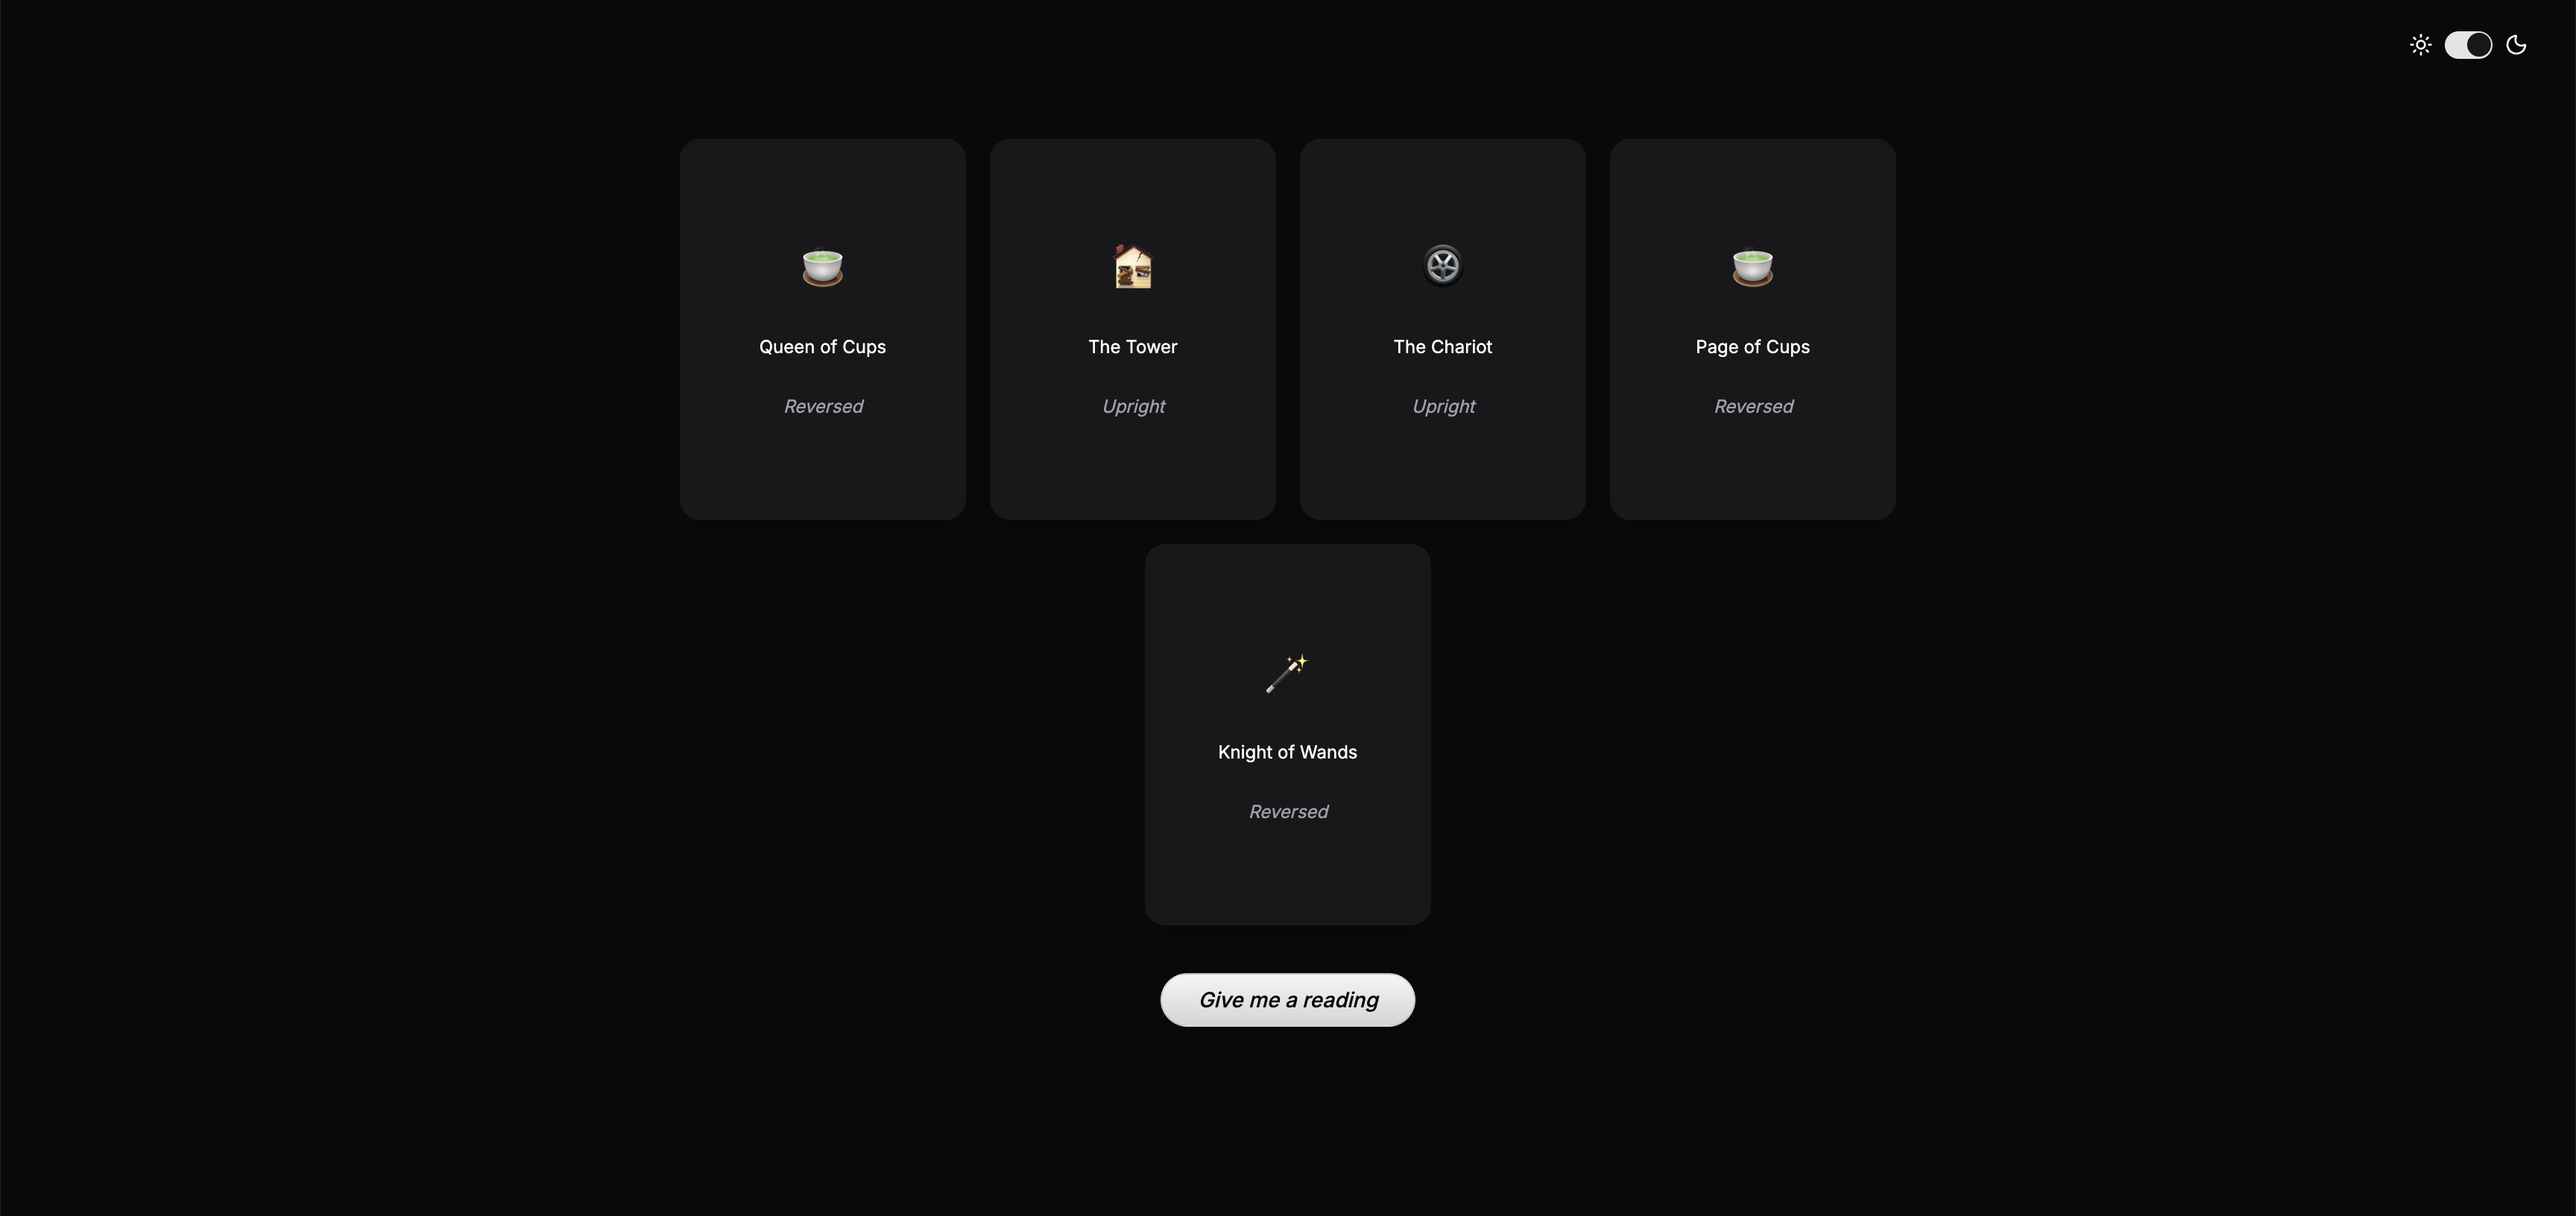
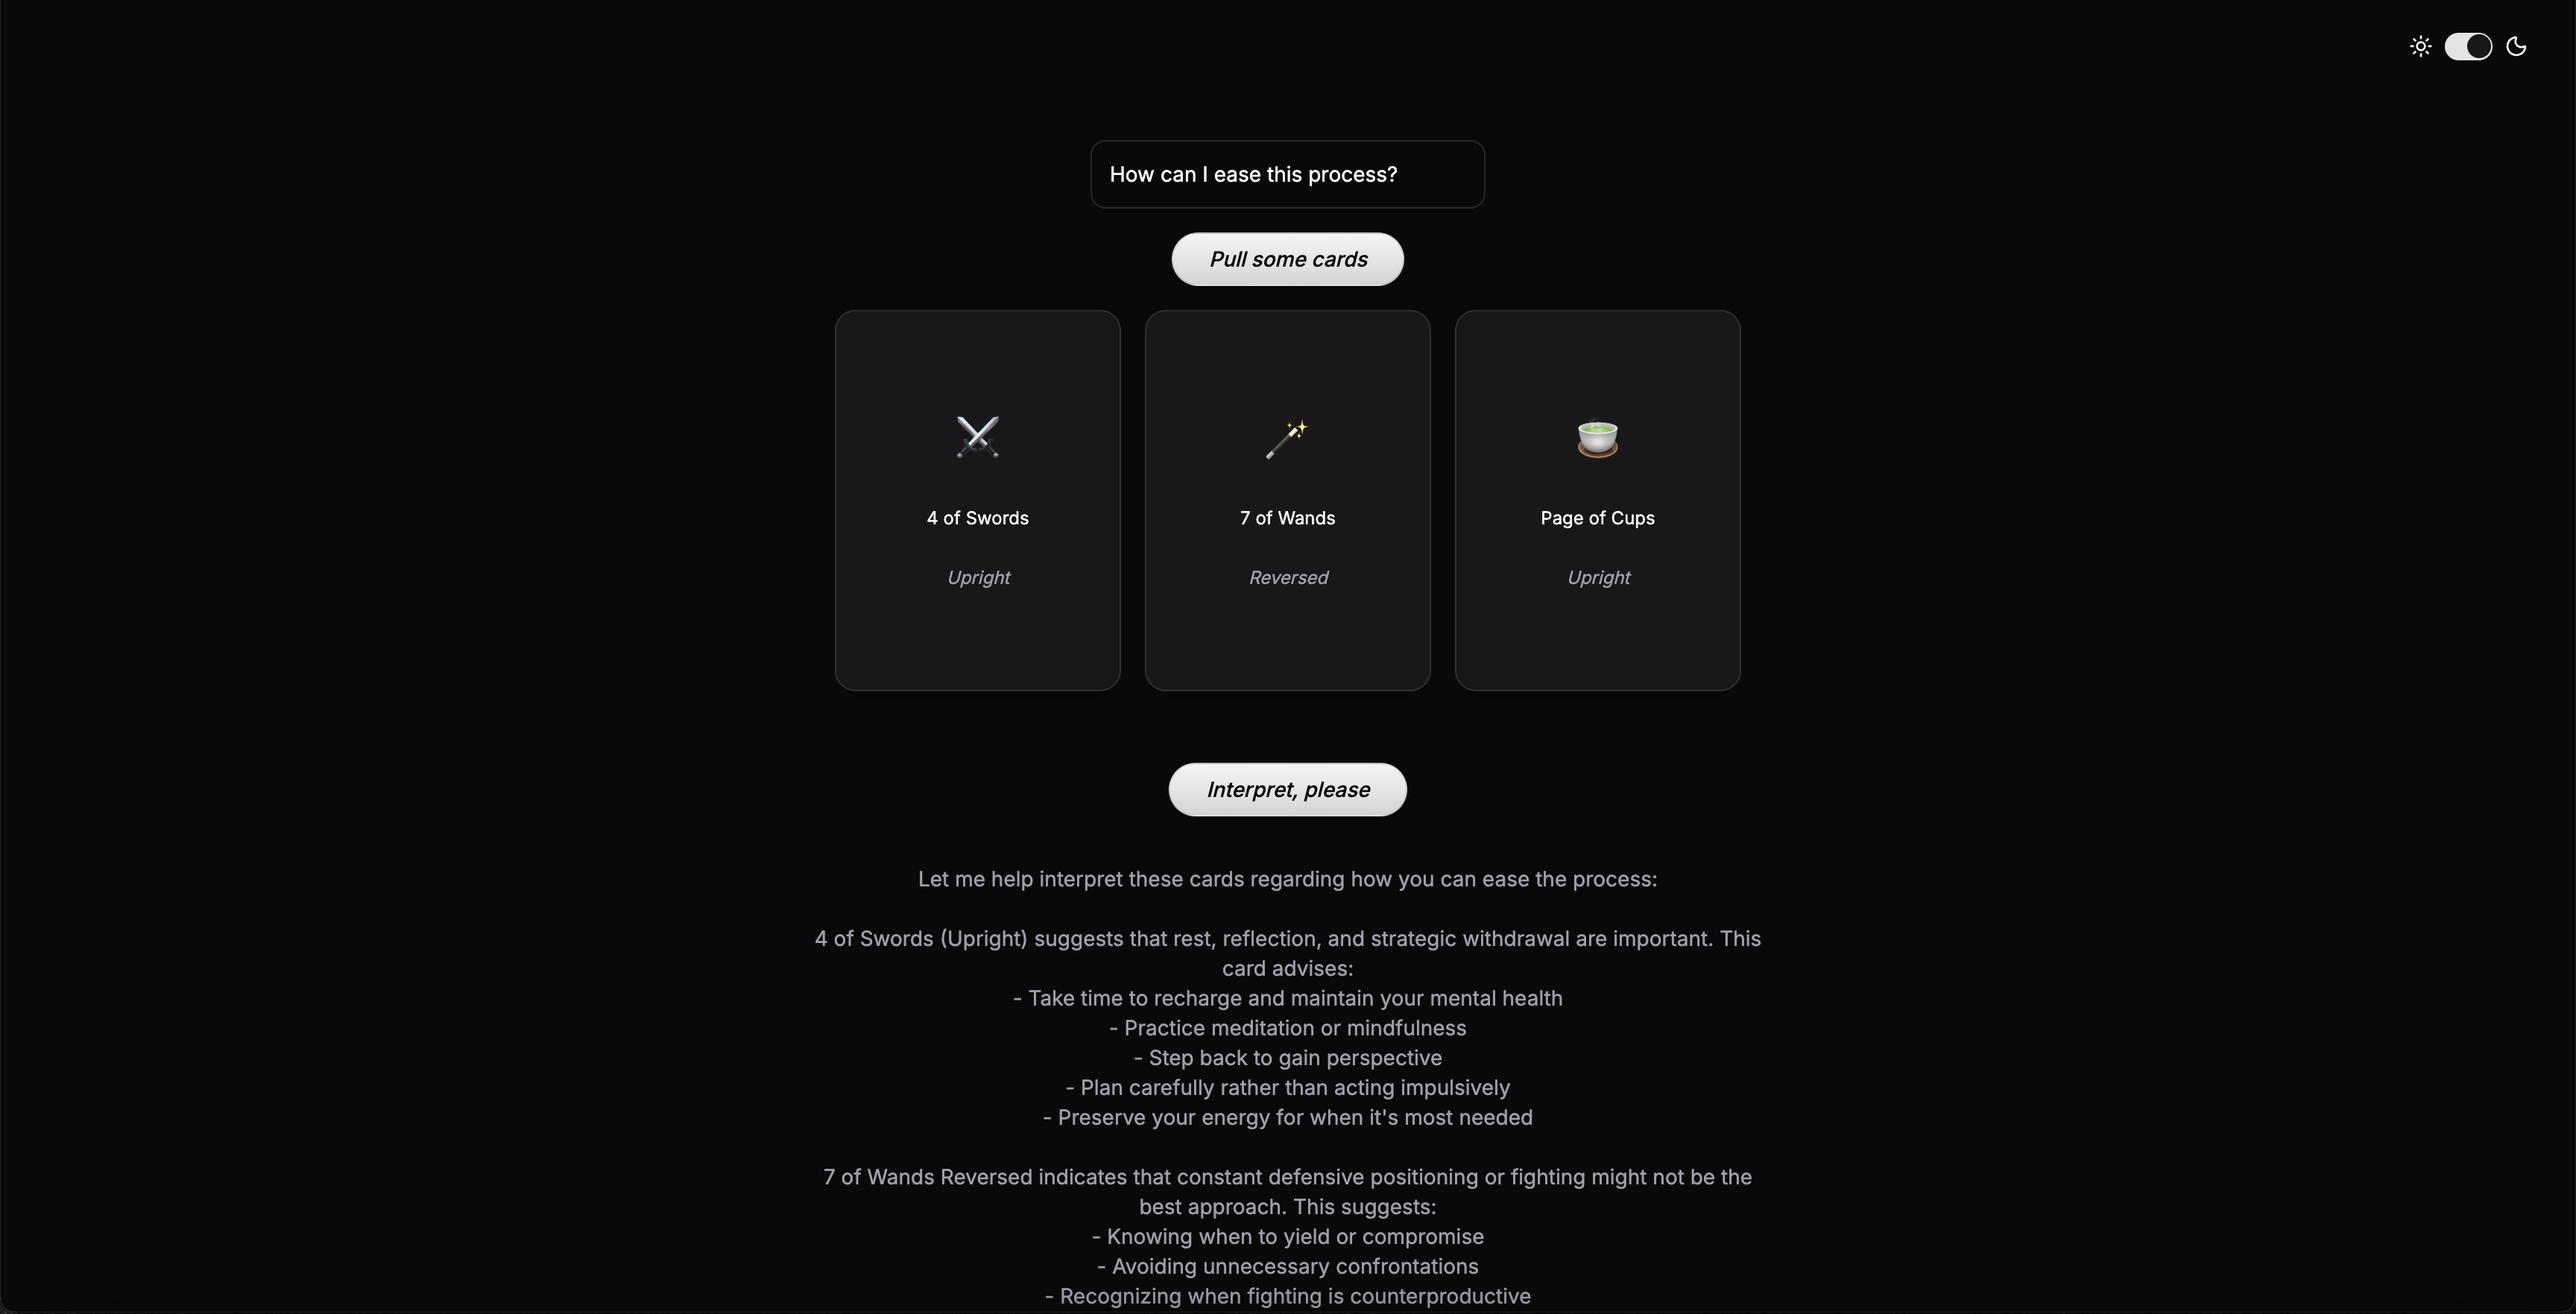
updated readme

diff --git a/README.md b/README.md
@@ -2,28 +2,38 @@
 
 A very simple Tarot card reading app built with **Next.js**, **Tailwind CSS**, and **Flask**. Draw cards from a virtual deck and receive randomized readings.
 
+
+Arcana is a simple tarot card reading web app built with Next.js and Flask. It lets users pull tarot cards, ask personalized questions, and receive interpretations using Anthropic's *Sonnet 3.5* model. The interface includes a clean design, dynamic card rendering with emoji suits, and full light/dark theme support.
+
 ---
 
 ## ✨ Features
 
-- Draw 1–5 random tarot cards from a full 78-card deck
-- Each card includes an **orientation** (Upright or Reversed)
-- Emoji representations for suits:
-  - 🍵 Cups
-  - 💵 Pentacles
-  - ⚔ Swords
-  - 🪄 Wands
-- Dark/light mode with animated theme switching
-- Responsive design with ShadCN + Tailwind
+* 🎴 Draw 1–5 random tarot cards (Major + Minor Arcana)
+* 💬 Ask a personal question to guide the reading
+* 🤖 Receive an AI-generated interpretation (Anthropic, Sonnet 3.5)
+* 💡 Beautiful light/dark mode with animated transitions
+* 🌈 Glossy animated buttons and emoji-enhanced cards
+* 📚 Session memory support for multi-step readings
+
 
 ---
 
 ## 🧱 Tech Stack
 
-- **Frontend:** Next.js (App Router), Tailwind CSS, ShadCN UI
-- **Backend:** Flask (Python)
-- **Styling:** CSS transitions, dark mode support
-- **UI Effects:** Glossy button, smooth theme toggling
+### Frontend
+
+* **Next.js (App Router)**
+* **React (Client Components)**
+* **Tailwind CSS** for styling
+* **Lucide Icons** + emojis for card symbols
+* **Light/Dark Mode** with `next-themes`
+
+### Backend
+
+* **Flask** API for `/draw` and `/interpret` endpoints
+* **Anthropic API** integration
+* **In-memory conversation history**
 
 ---
 
@@ -34,7 +44,7 @@ A very simple Tarot card reading app built with **Next.js**, **Tailwind CSS**, a
 ```bash
 git clone https://github.com/delaralomen/arcana.git
 cd arcana
-````
+```
 
 ---
 
@@ -62,11 +72,13 @@ Then open [http://localhost:3000](http://localhost:3000) in your browser.
 
 ---
 
-## 🧪 API
+## 🧪 API Endpoints
 
-**Endpoint:** `GET /api/draw`
+`GET /api/draw`
+
 Returns a JSON response with a random tarot reading of 1 to 5 cards.
 
+Payload:
 ```json
 {
   "num_cards": 3,
@@ -78,18 +90,34 @@ Returns a JSON response with a random tarot reading of 1 to 5 cards.
 }
 ```
 
+`POST /api/interpret`
+
+Takes a user prompt + set of drawn cards and returns an interpretation using Anthropic API.
+
+Payload:
+
+```json
+{
+  "prompt": "What should I focus on today?",
+  "cards": [
+    { "card": "The Empress", "orientation": "Upright" },
+    { "card": "2 of Cups", "orientation": "Reversed" }
+  ]
+}
+```
+
+
 ---
 
 ## 📁 Project Structure
 
 ```
 arcana/
-├── backend/
-│   └── main.py           # Flask backend
-├── frontend/
-│   ├── components/      # UI components
-│   ├── app/             # Next.js pages
-│   └── tailwind.config.js
+├── backend/              # Flask server
+│   └── main.py
+├── frontend/             # Next.js frontend
+│   ├── app/              # App Router structure
+│   ├── components/       # UI and utility components
 ```
 
 ---
